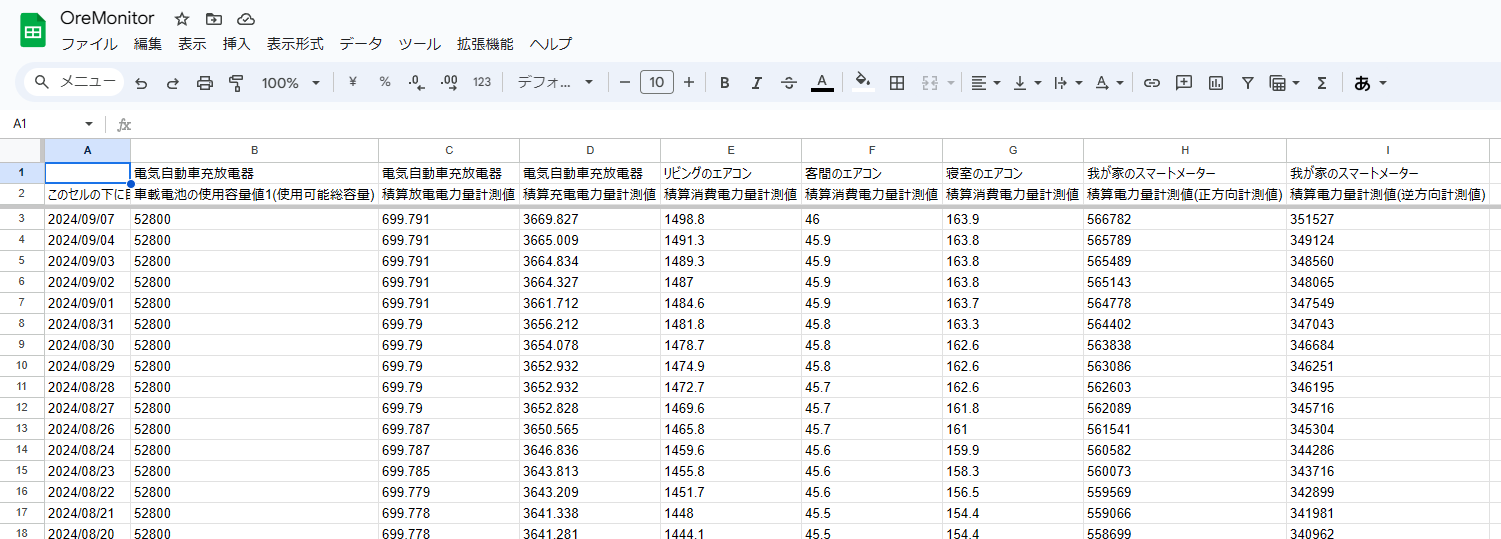
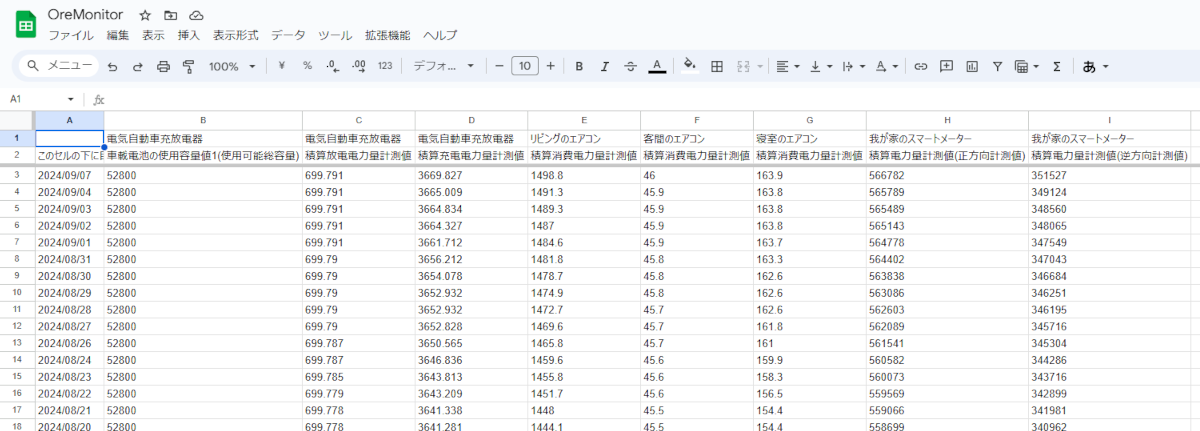
画像追加

diff --git a/index.md b/index.md
@@ -1,4 +1,6 @@
-目次
+![OreMonitor](assets/img/oremonitor.png)
+
+目次
 
 1. [**俺モニター**で出来ること](#what)
 1. [インストール](#install)
